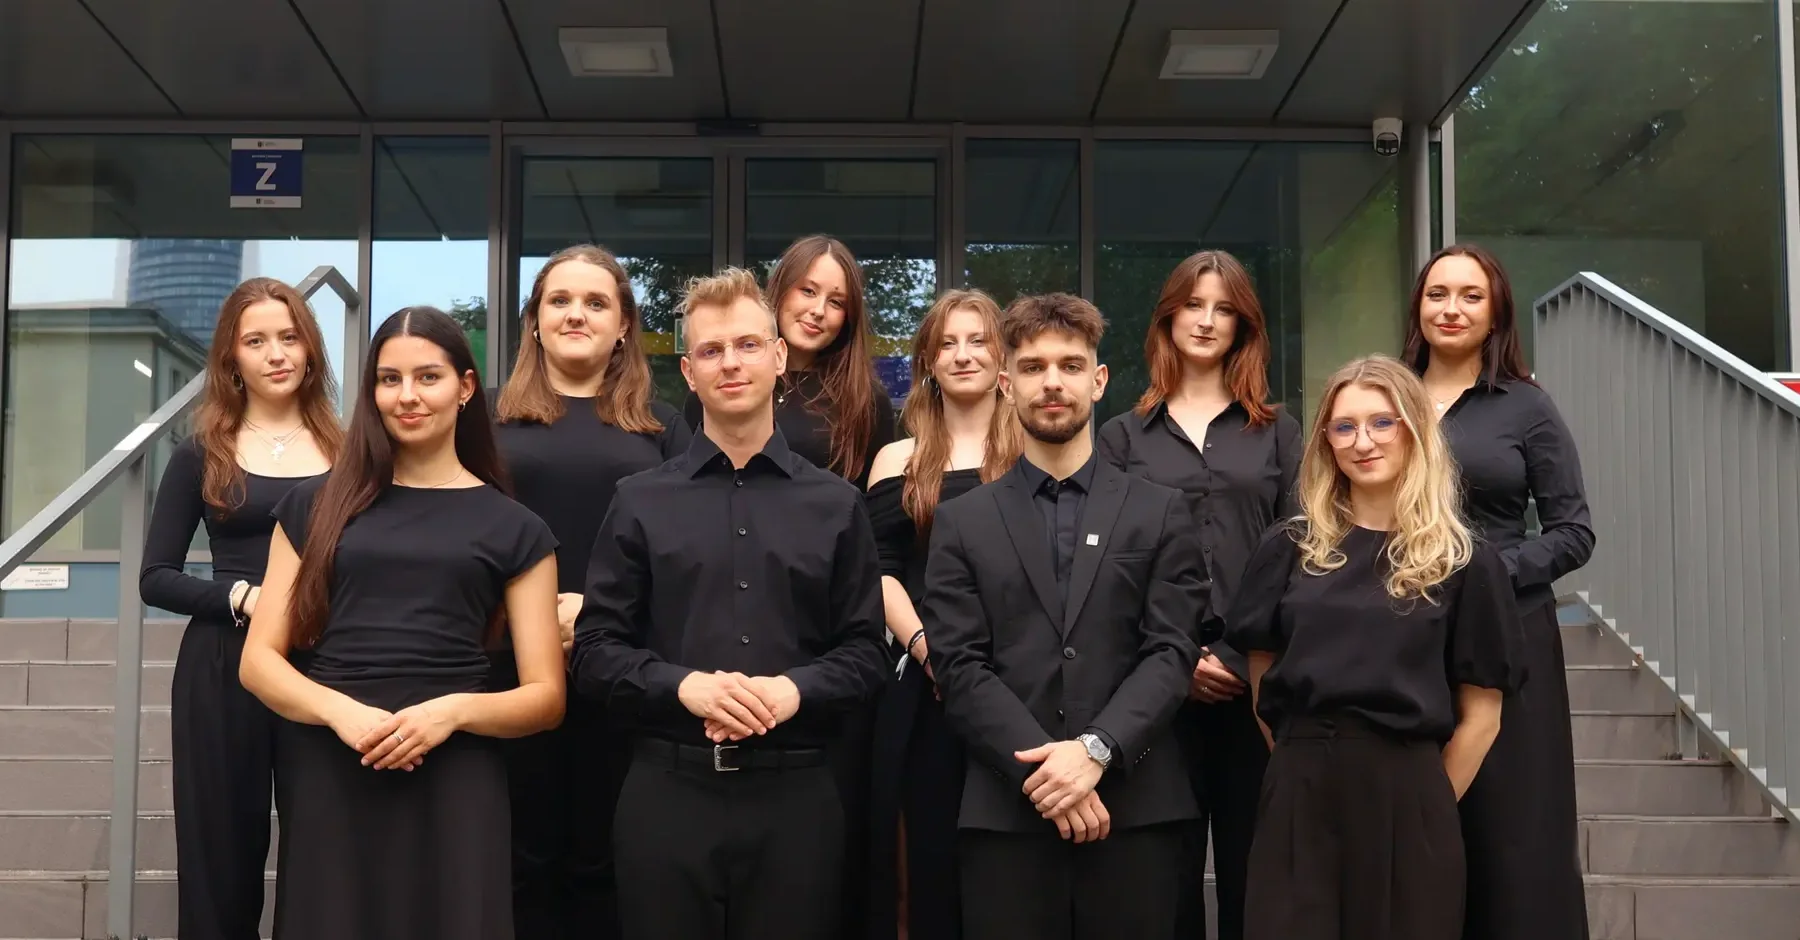
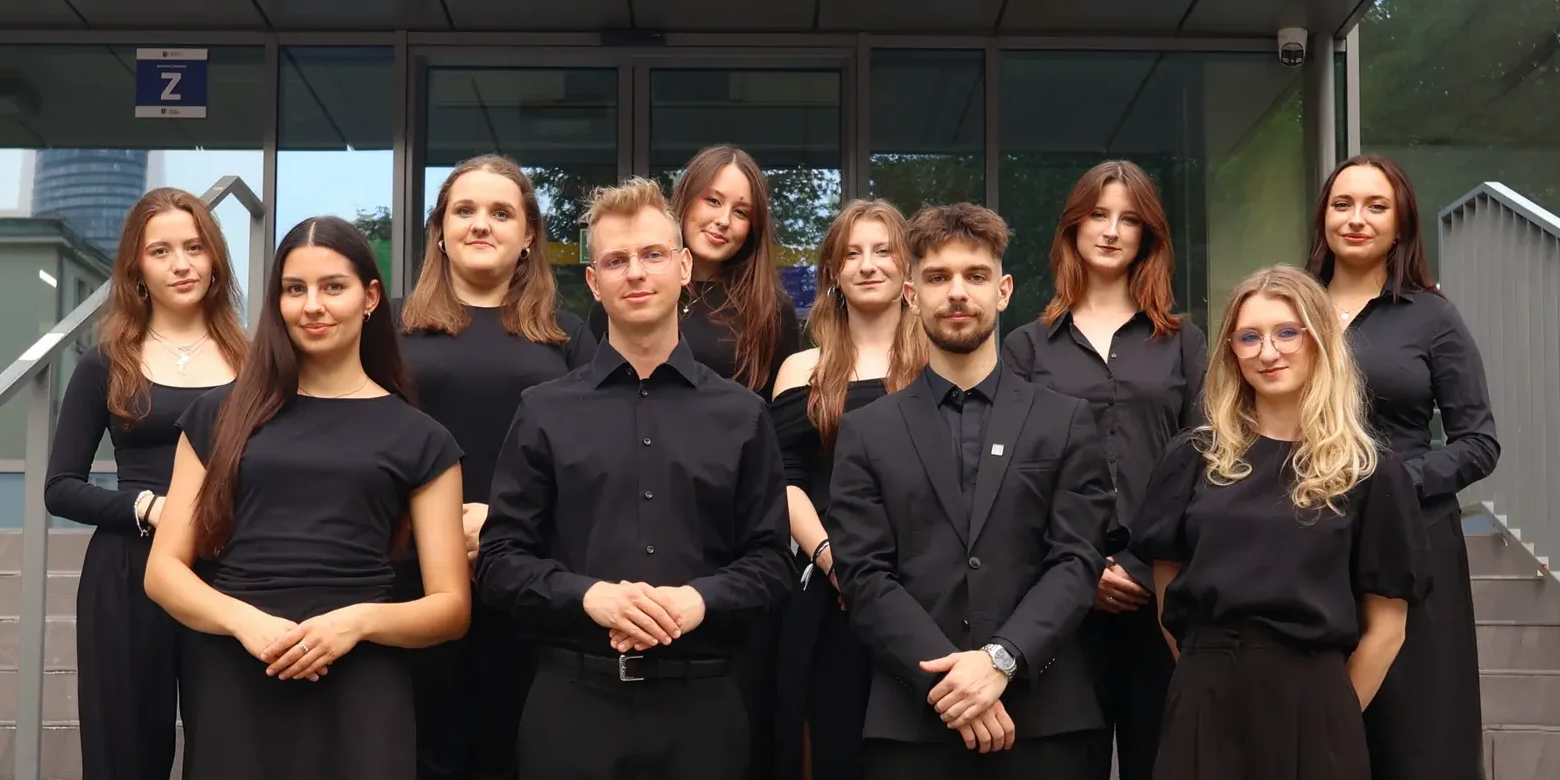
fix: zdjęcie Zarządu przycięte do grupy i bioder, w oprawie z podpisem i węższe (mniej rozmyte)

diff --git a/src/components/TeamPhotoBand.tsx b/src/components/TeamPhotoBand.tsx
@@ -7,28 +7,35 @@ import { useReducedMotion } from "@/lib/use-reduced-motion";
 const EASE = [0.16, 1, 0.3, 1] as const;
 
 /**
- * Szerokie zdjęcie zespołu pod hero. Kadr 16:7 mieści całą grupę i kończy
- * się na biodrach - w kadrze obok tytułu (prawie kwadrat) albo widać było
- * nogi pierwszego rzędu, albo odpadały osoby z brzegów (uwaga z 3.11.2026).
+ * Zdjęcie zespołu pod hero, w oprawie jak odbitka: jasny passe-partout,
+ * cienka ramka i podpis mono. Kadr przycięty do samej grupy (bez schodów
+ * i poręczy po bokach) i do bioder; szerokość ograniczona, bo źródło ma
+ * 2400 px i na pełnej szerokości strony było rozmyte (uwagi z 3.11.2026).
  */
-export function TeamPhotoBand({ src, alt, position = "50% 30%" }: { src: string; alt: string; position?: string }) {
+export function TeamPhotoBand({ src, alt, label, place, position = "50% 30%" }: { src: string; alt: string; label: string; place: string; position?: string }) {
   const reduce = useReducedMotion();
   return (
-    <div className="mx-auto max-w-[1200px] pt-8 sm:px-6 md:pt-14">
+    <div className="mx-auto max-w-[1200px] px-6 pt-10 md:pt-14">
       <motion.figure
-        className="relative aspect-[16/7] overflow-hidden bg-bg-elevated sm:rounded-2xl"
-        initial={reduce ? false : { clipPath: "inset(12% 0 12% 0)", opacity: 0 }}
-        animate={{ clipPath: "inset(0% 0 0% 0)", opacity: 1 }}
-        transition={reduce ? { duration: 0 } : { duration: 1, delay: 0.15, ease: EASE }}
+        className="mx-auto max-w-[980px] rounded-2xl border border-border-medium bg-bg-surface p-2 shadow-[0_1px_2px_rgba(11,19,34,0.04),0_12px_32px_-12px_rgba(11,19,34,0.18)] sm:p-3"
+        initial={reduce ? false : { opacity: 0, y: 16 }}
+        animate={{ opacity: 1, y: 0 }}
+        transition={reduce ? { duration: 0 } : { duration: 0.7, delay: 0.15, ease: EASE }}
       >
-        <motion.div
-          className="absolute inset-0"
-          initial={reduce ? false : { scale: 1.06 }}
-          animate={{ scale: 1 }}
-          transition={reduce ? { duration: 0 } : { duration: 1.4, delay: 0.15, ease: EASE }}
-        >
-          <Image src={src} alt={alt} fill priority sizes="(min-width: 1248px) 1200px, 100vw" className="object-cover" style={{ objectPosition: position }} />
-        </motion.div>
+        <div className="relative aspect-[2/1] overflow-hidden rounded-xl bg-bg-elevated">
+          <motion.div
+            className="absolute inset-0"
+            initial={reduce ? false : { scale: 1.05 }}
+            animate={{ scale: 1 }}
+            transition={reduce ? { duration: 0 } : { duration: 1.4, delay: 0.15, ease: EASE }}
+          >
+            <Image src={src} alt={alt} fill priority sizes="(min-width: 1048px) 960px, 100vw" className="object-cover" style={{ objectPosition: position }} />
+          </motion.div>
+        </div>
+        <figcaption className="flex flex-col gap-0.5 px-2 pb-1 pt-3 font-mono text-[0.6875rem] uppercase tracking-[0.08em] sm:flex-row sm:items-center sm:justify-between sm:px-1">
+          <span className="text-ink-primary">{label}</span>
+          <span className="text-ink-tertiary">{place}</span>
+        </figcaption>
       </motion.figure>
     </div>
   );

diff --git a/src/app/[locale]/zarzad/page.tsx b/src/app/[locale]/zarzad/page.tsx
@@ -2,6 +2,7 @@ import type { Metadata } from "next";
 import { getTranslations, setRequestLocale } from "next-intl/server";
 import { PageHero } from "@/components/PageHero";
 import { TeamPhotoBand } from "@/components/TeamPhotoBand";
+import { TERM } from "@/lib/term";
 import { ZarzadContent } from "@/components/pages/ZarzadContent";
 import { ogMeta } from "@/lib/og";
 import { getZarzadzeniaData } from "@/lib/tresci";
@@ -37,7 +38,7 @@ export default async function ZarzadPage({ params }: Props) {
         ]}
       />
       {/* Sesja Zarządu 2026/2027, schody przed budynkiem Z - szeroki kadr bez nóg pierwszego rzędu. */}
-      <TeamPhotoBand src="/photos/zarzad/zespol-szeroki.webp" alt={t("heroPhotoAlt")} position="50% 20%" />
+      <TeamPhotoBand src="/photos/zarzad/zespol-szeroki.webp" alt={t("heroPhotoAlt")} label={t("bandLabel", { term: TERM })} place={t("bandPlace")} position="50% 40%" />
       <ZarzadContent orders={orders} />
     </>
   );
